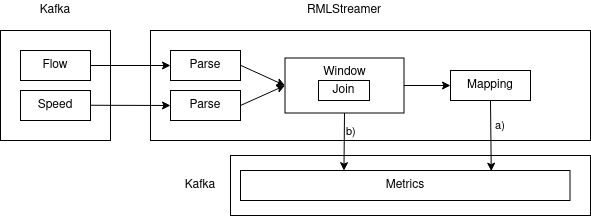
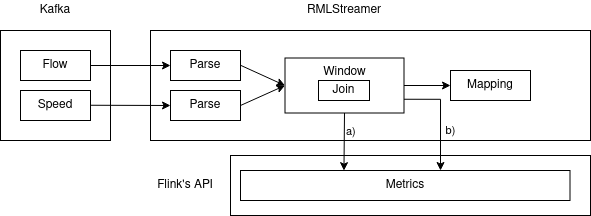
some changes to evaluation

diff --git a/chapter/Evaluation.tex b/chapter/Evaluation.tex
@@ -29,10 +29,10 @@ Assessment of our dynamic windowing scheme for multi-stream operator will requir
 the data to have some common attributes to enrich the data. Furthermore, to 
 mirror a real-world scenario, we would also employ data gathered from IoT sensors. 
 We will use the same data 
-as is the case for the benchmark in the paper by Van Dongen and Van den Poel~\cite{evalution_of_spe}. 
+as the benchmark in the paper by Van Dongen and Van den Poel~\cite{evalution_of_spe}. 
 The data is provided by NDW (Nationale Databank Wegverkeersgegevens) from the 
 Netherlands~\footnote{NDW data site: \href{http://opendata.ndw.nu/}{http://opendata.ndw.nu/} }.
- It consists of measurements of the number of cars and their average speed. 
+It consists of measurements of the number of cars and their average speed across  
 A subset of the complete sensor data will be replayed by a Kafka publisher into the two topics 
 \emph{flow} and \emph{speed}, for the number of cars and the average speed respectively. 
 
@@ -54,8 +54,9 @@ mapping engine needs to be removed in the final \emph{complete} output dataset.
     \centering
     \includegraphics[width=\textwidth]{fig/evaluation_architecture.png}
     \caption{Evaluation flow based on~\cite{evalution_of_spe} with some changes to only 
-    take metrics at the "Join" and the "Mapping" stage. a) \emph{throughput} of the generated output triple. 
-    b) \emph{latency} of evaluating the join operator in windows.}
+    take metrics at the "Join" stage.
+    a) \emph{latency, memory}, and \emph{cpu usage} of evaluating the join operator in windows.
+    b) \emph{throughput} of the generated output triple.}
     \label{fig:evaluation_flow}
     
 \end{figure}
